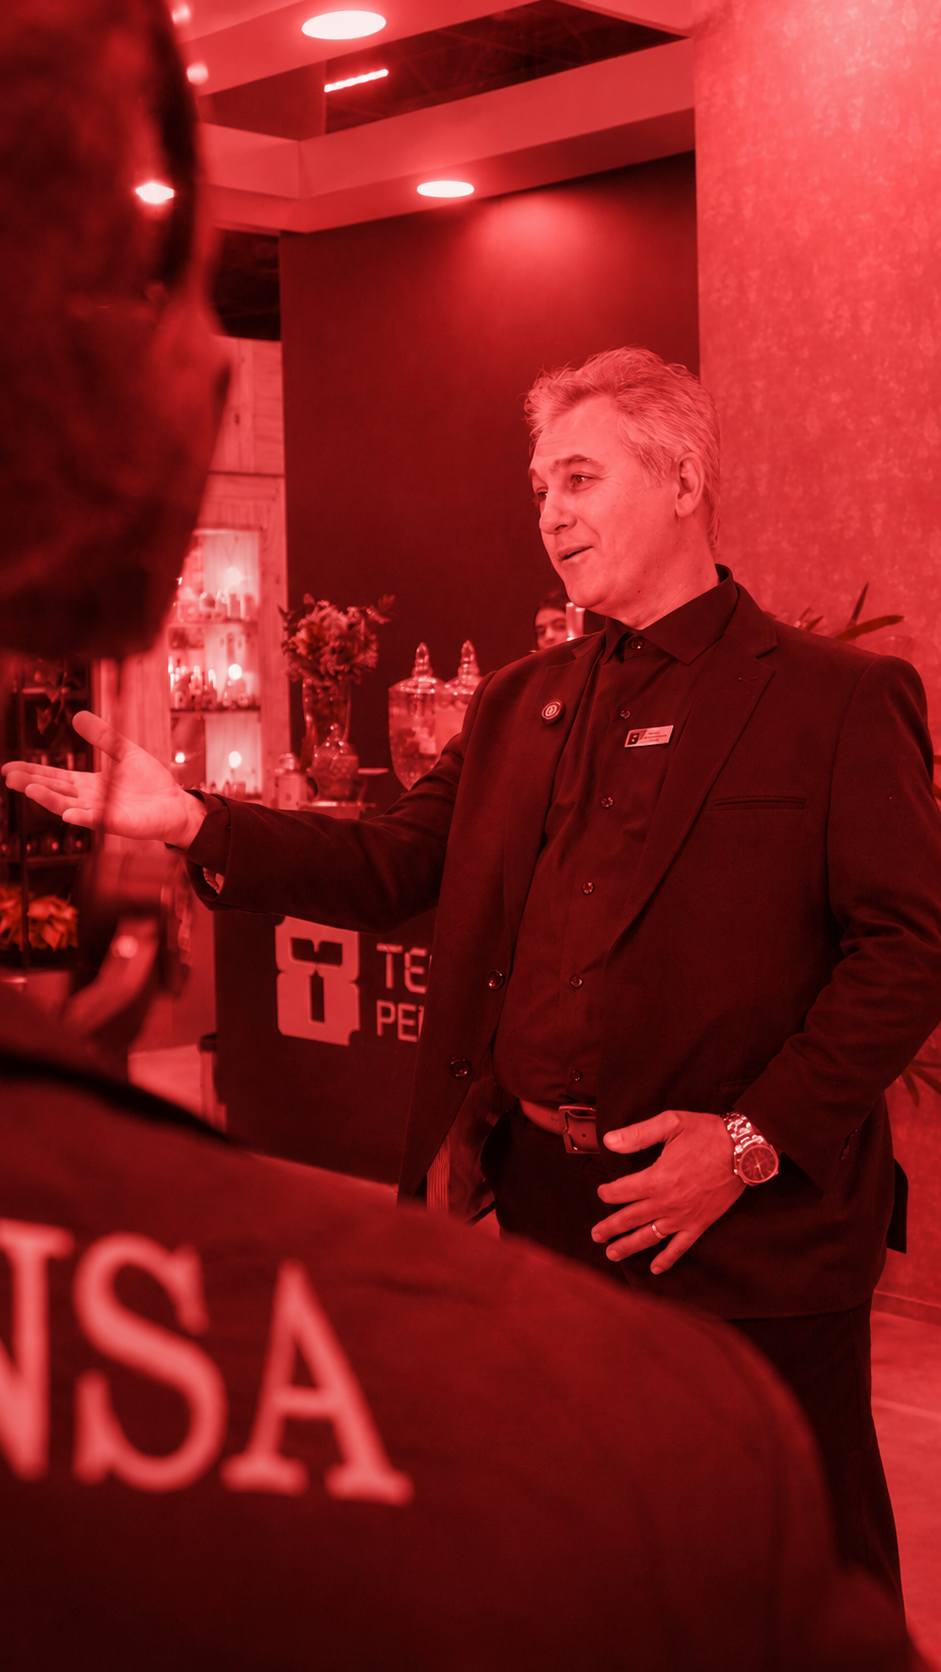
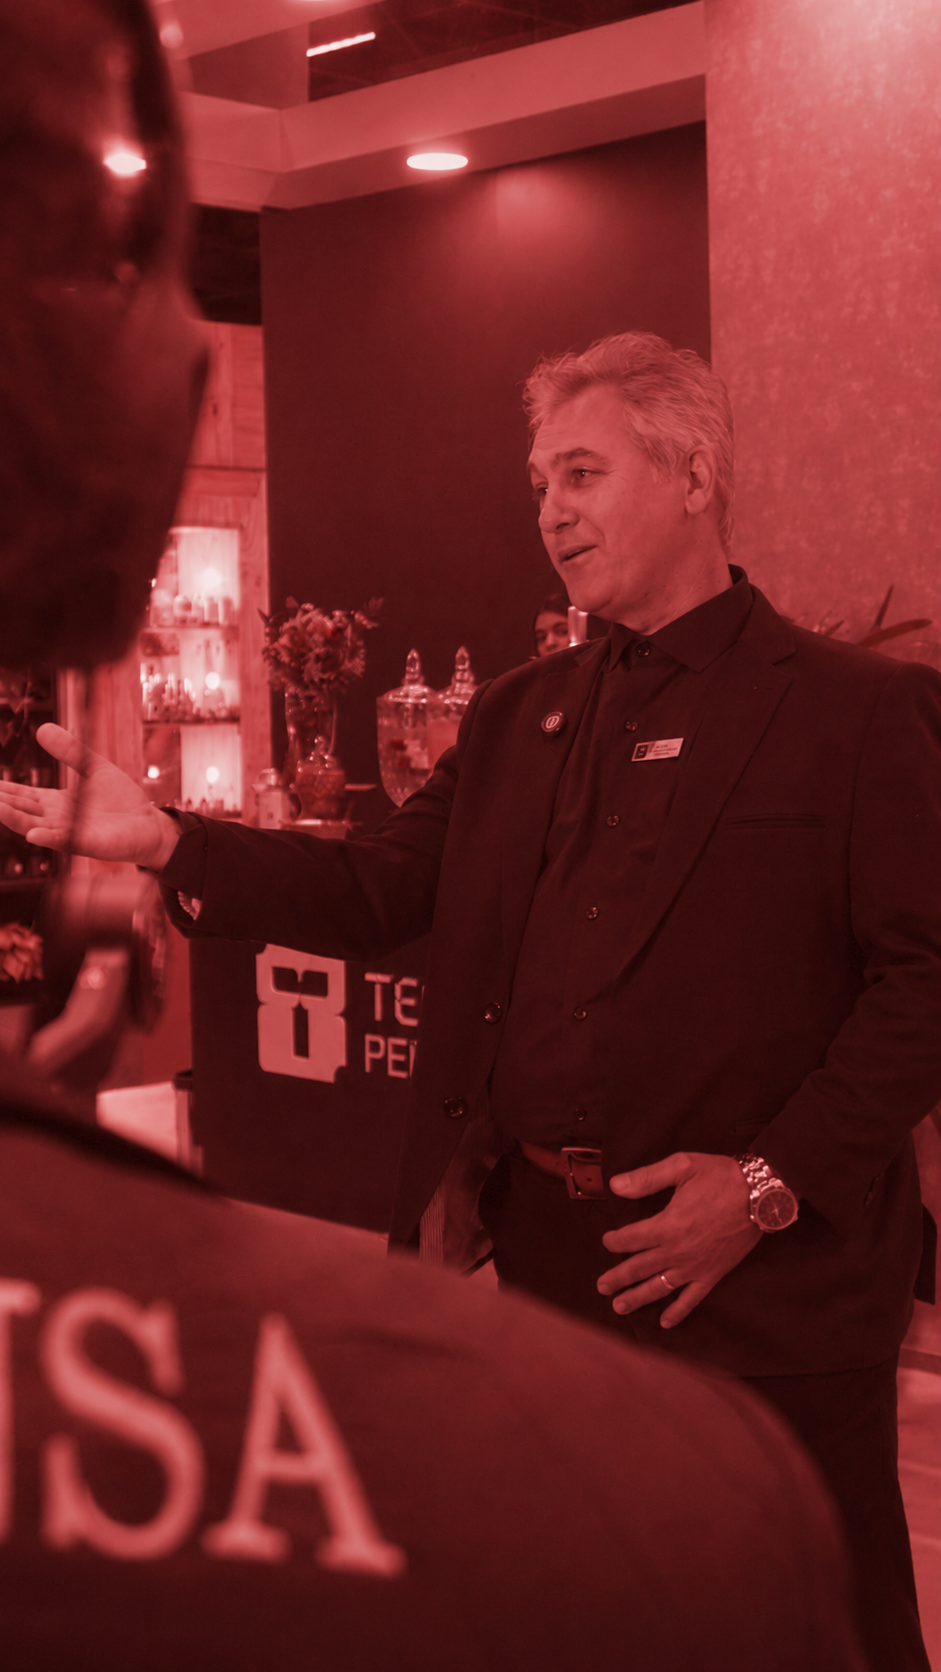
feat: replace tecfag background image and update quote author to Gilson Donato

diff --git a/src/components/chat/Login.tsx b/src/components/chat/Login.tsx
@@ -114,10 +114,10 @@ export function Login() {
           </blockquote>
           <div>
             <cite className="not-italic block font-bold text-sm text-white">
-              {activeTenant === "tecfag" ? "Karen Yue" : "João Rodolfo Lanza"}
+              {activeTenant === "tecfag" ? "Gilson Donato" : "João Rodolfo Lanza"}
             </cite>
             <span className="text-xs text-white/60">
-              {activeTenant === "tecfag" ? "Diretora de Tecnologia de Marketing Digital" : "Diretor Executivo da Tecfag Group"}
+              {activeTenant === "tecfag" ? "Chief Executive Officer da Tecfag Group" : "Diretor Executivo da Tecfag Group"}
             </span>
           </div>
         </div>
